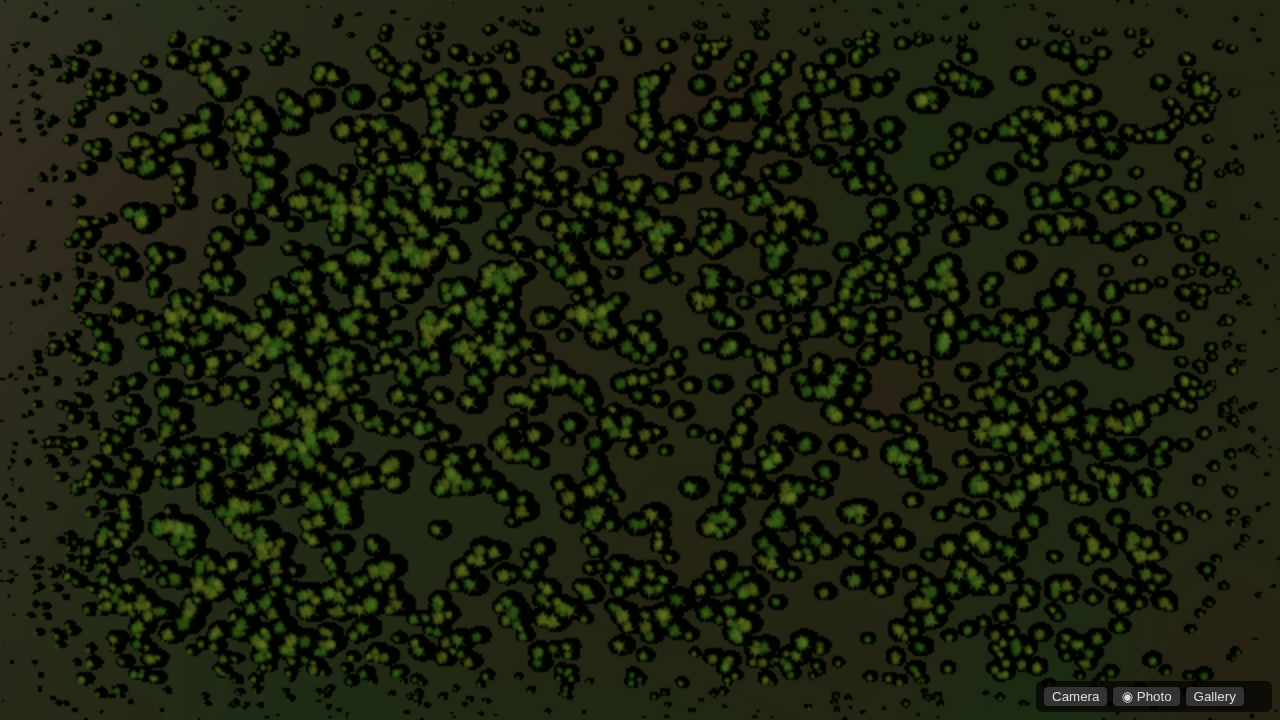
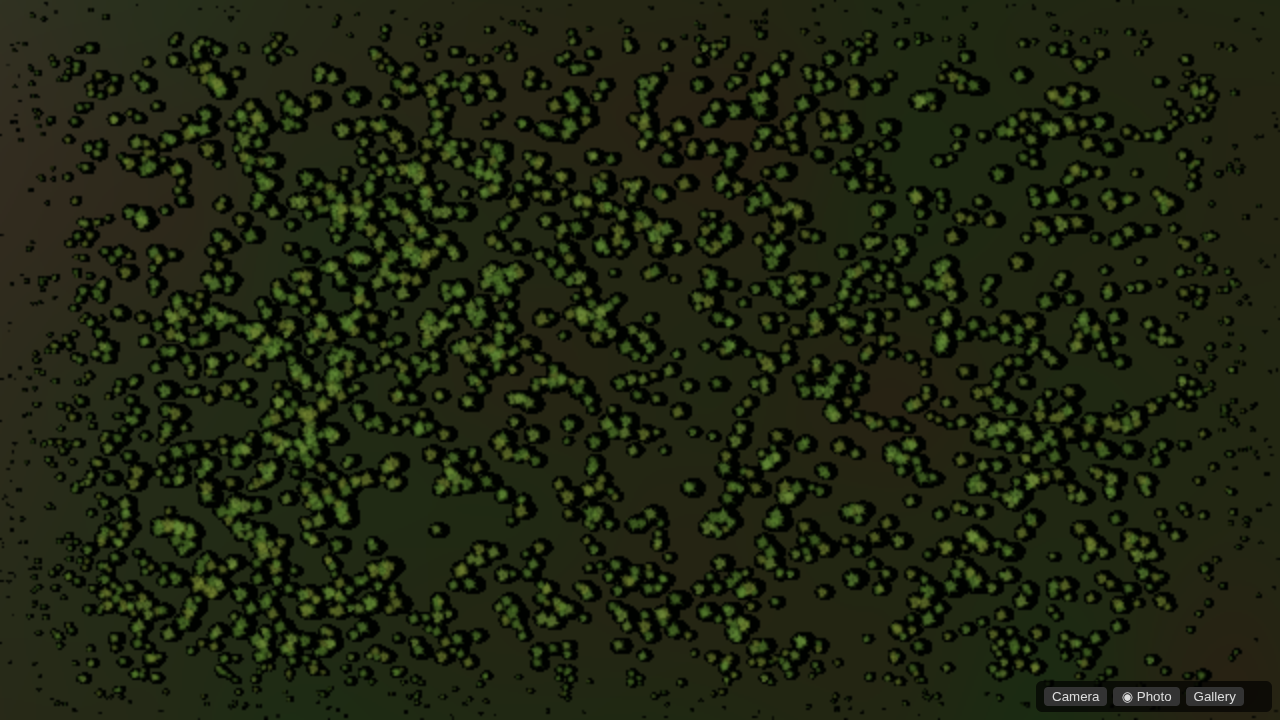
feat: use foliage billboards after octahedral nadir streaks
Octahedral impostors of the standing spruce point at the camera and
turn the nadir into a vortex. These are lit top-down billboards of the
same foliage, varied in size and tint, with shadows, across the view.

diff --git a/src/render/trees/overheadCrowns.ts b/src/render/trees/overheadCrowns.ts
@@ -1,12 +1,12 @@
 /**
  * Overhead crowns from the existing spruce (D24).
  *
- * Top-down billboards baked from the mid LOD of buildConifer (three seeds).
- * The octahedral impostor shader does not compile in this WebGL build
- * (unpackRGBToNormal). A lit orthographic render of the same mesh is the
- * billboard. Each disc lies in the tangent plane, with a soft shadow beside
- * it. Placement is farTreesInTile across the whole nadir rectangle, faded
- * toward the frame edge rather than cut off in a circle.
+ * Overhead crowns. An octahedral impostor of the spruce, stood on the radial,
+ * shows the side of the tree anywhere off the nadir and the frame becomes a
+ * vortex of streaks. The billboard is a lit render of that same foliage mesh
+ * from above, laid in the tangent plane, so every instance stays a crown.
+ * Three seeds, per-instance scale and tint, a soft shadow. farTreesInTile fills
+ * the view rectangle and fades at the frame edge. The tiled canopy is off.
  */
 import * as THREE from 'three';
 import { FAR_TREES, farTreesInTile } from '../../core/flora/stands';
@@ -74,21 +74,20 @@ function shadowTexture() {
   return tex;
 }
 
-/** One lit top-down billboard of a real spruce. The octahedral material failed to compile here. */
+/** Lit top-down billboard of one spruce's foliage. */
 function bakeTopDown(renderer: THREE.WebGLRenderer, root: THREE.Object3D): { texture: THREE.Texture; width: number } {
   root.updateMatrixWorld(true);
   const box = new THREE.Box3().setFromObject(root);
   const center = box.getCenter(new THREE.Vector3());
   const size = box.getSize(new THREE.Vector3());
   const reach = Math.max(size.x, size.z, 1) * 0.62;
-  const cam = new THREE.OrthographicCamera(-reach, reach, reach, -reach, 0.05, size.y + 4);
-  cam.position.set(center.x + reach * 0.42, center.y + Math.max(size.y, 1) * 0.85, center.z + reach * 0.22);
+  const cam = new THREE.OrthographicCamera(-reach, reach, reach, -reach, 0.05, Math.max(size.y, 1) + 4);
+  cam.position.set(center.x, box.max.y + 1.5, center.z);
   cam.up.set(0, 0, -1);
-  cam.lookAt(center.x, center.y, center.z);
-  const sun = new THREE.DirectionalLight(0xfff1d6, 2.4);
-  sun.position.set(center.x + reach, box.max.y + reach, center.z + reach * 0.35);
-  sun.intensity = 1.15;
-  const sky = new THREE.AmbientLight(0x8aa4c4, 0.35);
+  cam.lookAt(center);
+  const sun = new THREE.DirectionalLight(0xfff1d6, 1.3);
+  sun.position.set(center.x + reach, box.max.y + reach, center.z + reach * 0.4);
+  const sky = new THREE.AmbientLight(0x8aa4c4, 0.45);
   const scene = new THREE.Scene();
   scene.add(root, sun, sky);
   const rt = new THREE.WebGLRenderTarget(256, 256, { format: THREE.RGBAFormat });
@@ -119,7 +118,7 @@ function disposeTree(root: THREE.Object3D) {
 
 export interface OverheadCrowns {
   group: THREE.Group;
-  update(dir: THREE.Vector3, altM: number, surfaceR: number, planet: Planet, aspect: number, fovDeg: number): number;
+  update(dir: THREE.Vector3, altM: number, surfaceR: number, planet: Planet, aspect: number, fovDeg: number, camera: THREE.Camera): number;
   dispose(): void;
 }
 
@@ -137,7 +136,7 @@ export function createOverheadCrowns(renderer: THREE.WebGLRenderer): OverheadCro
   shadows.count = 0;
   group.add(shadows);
   const meshes: THREE.InstancedMesh[] = [];
-  const widths: number[] = [];
+  const diameters: number[] = [];
   let baked = false;
   const pub = { count: 0, alt: 0 };
   (globalThis as { __crowns?: typeof pub }).__crowns = pub;
@@ -152,10 +151,11 @@ export function createOverheadCrowns(renderer: THREE.WebGLRenderer): OverheadCro
     for (const seed of [11, 29, 53]) {
       const tree = buildConifer('black-spruce', seed, 55 + (seed % 40));
       try {
-        const shot = bakeTopDown(renderer, tree.mid);
+        const foliage = tree.mid.children[1] ?? tree.mid;
+        const shot = bakeTopDown(renderer, foliage);
         const mesh = new THREE.InstancedMesh(
           new THREE.PlaneGeometry(1, 1),
-          new THREE.MeshBasicMaterial({ map: shot.texture, alphaTest: 0.28, transparent: true, depthWrite: false, depthTest: false, side: THREE.DoubleSide }),
+          new THREE.MeshBasicMaterial({ map: shot.texture, alphaTest: 0.22, transparent: true, depthWrite: false, depthTest: false, side: THREE.DoubleSide }),
           CROWN_CAP,
         );
         mesh.instanceColor = new THREE.InstancedBufferAttribute(new Float32Array(CROWN_CAP * 3), 3);
@@ -164,9 +164,9 @@ export function createOverheadCrowns(renderer: THREE.WebGLRenderer): OverheadCro
         mesh.renderOrder = 2;
         group.add(mesh);
         meshes.push(mesh);
-        widths.push(shot.width);
+        diameters.push(shot.width);
       } catch (err) {
-        console.warn('overhead billboard bake failed', err);
+        console.warn('overhead crown bake failed', err);
       }
       disposeTree(tree.near);
       disposeTree(tree.mid);
@@ -174,7 +174,7 @@ export function createOverheadCrowns(renderer: THREE.WebGLRenderer): OverheadCro
     }
   }
 
-  function update(dir: THREE.Vector3, altM: number, surfaceR: number, _planet: Planet, aspect: number, fovDeg: number) {
+  function update(dir: THREE.Vector3, altM: number, surfaceR: number, _planet: Planet, aspect: number, fovDeg: number, camera: THREE.Camera) {
     pub.alt = altM;
     const show = altM > 180 && altM < 2200;
     AERIAL.uCrownFloor.value = show ? 1 : 0;
@@ -203,8 +203,9 @@ export function createOverheadCrowns(renderer: THREE.WebGLRenderer): OverheadCro
     const frame = tangentFrame([dir.x, dir.y, dir.z]);
     east.set(...frame.east); north.set(...frame.north); up.set(...frame.dir);
     flat.setFromRotationMatrix(new THREE.Matrix4().makeBasis(east, north, up));
+    const cam = camera.position;
     const counts = meshes.map(() => 0);
-    const hues: [number, number, number][] = [[0.55, 0.72, 0.4], [0.72, 0.62, 0.32], [0.4, 0.58, 0.3], [0.85, 0.78, 0.38]];
+    const hues: [number, number, number][] = [[0.82, 1.05, 0.72], [1.08, 0.92, 0.62], [0.7, 0.88, 0.58], [1.05, 1.12, 0.78]];
     let n = 0;
     for (const spot of spots) {
       const vi = spot.slot % meshes.length;
@@ -212,14 +213,15 @@ export function createOverheadCrowns(renderer: THREE.WebGLRenderer): OverheadCro
       const i = counts[vi]++;
       if (i >= CROWN_CAP) continue;
       at.copy(up).multiplyScalar(surfaceR).addScaledVector(east, spot.x).addScaledVector(north, -spot.z);
-      at.setLength(surfaceR + 2);
-      const sc = widths[vi] * spot.scale * 2.4 * Math.max(0.05, spot.fade);
+      at.setLength(surfaceR + 1);
+      at.sub(cam);
+      const sc = diameters[vi] * spot.scale * 2.2 * Math.max(0.05, spot.fade);
       m4.compose(at, flat, s.set(sc, sc, 1));
       mesh.setMatrixAt(i, m4);
       const hue = hues[hash(`hue:${spot.x}:${spot.z}`) % hues.length];
       mesh.instanceColor!.setXYZ(i, hue[0], hue[1], hue[2]);
-      const sh = at.clone().addScaledVector(east, sc * 0.18).setLength(surfaceR + 0.2);
-      m4.compose(sh, flat, s.set(sc * 1.35, sc * 1.05, 1));
+      const sh = at.clone().addScaledVector(east, sc * 0.16);
+      m4.compose(sh, flat, s.set(sc * 1.25, sc * 0.95, 1));
       shadows.setMatrixAt(n, m4);
       n++;
     }

diff --git a/src/render/trees/impostor.ts b/src/render/trees/impostor.ts
@@ -292,9 +292,11 @@ varying vec2 vSpriteUV3;
 
 #ifdef EZ_USE_NORMAL
 vec3 blendNormals(vec2 uv1, vec2 uv2, vec2 uv3) {
-  vec3 normalDepth1 = unpackRGBToNormal(texture2D(normalMap, uv1).rgb); // we're reading twice if parallax enabled
-  vec3 normalDepth2 = unpackRGBToNormal(texture2D(normalMap, uv2).rgb);
-  vec3 normalDepth3 = unpackRGBToNormal(texture2D(normalMap, uv3).rgb);
+  // ANGLE does not match a .rgb swizzle to unpackRGBToNormal(const in vec3).
+  // The function is 2*rgb-1 (three packing.glsl.js).
+  vec3 normalDepth1 = texture2D(normalMap, uv1).rgb * 2.0 - 1.0;
+  vec3 normalDepth2 = texture2D(normalMap, uv2).rgb * 2.0 - 1.0;
+  vec3 normalDepth3 = texture2D(normalMap, uv3).rgb * 2.0 - 1.0;
 
   // Fix normal if blended bad
 
@@ -432,10 +434,10 @@ export function bakeAtlas(renderer: THREE.WebGLRenderer, target: THREE.Object3D,
  *  shading in the viewer [game calibration]. */
 export const IMPOSTOR_FX = { normalMix: { value: .25 }, upBend: { value: .15 }, tint: { value: new THREE.Vector3(.39, .42, .8) } }; // tint (M2): linear albedo gain; the flat impostor misses the needle cards' sky sheen, so it read yellow next to the near LOD (B/G .5 vs .72); rescaled for the lifted M2 needle colour so its median matches the near LOD [game calibration] // upBend: the camera-facing normal bent toward world up (the near LOD's crown normals lean up); .15 matches the near LOD's rendered brightness in the viewer [game calibration]
 /** Impostor material over MeshStandardMaterial (upstream createOctahedralImpostorMaterial, hemi + normal, opaque). */
-export function impostorMaterial(atlas: Atlas, spritesPerSide = 8, alphaClamp = .4) {
+export function impostorMaterial(atlas: Atlas, spritesPerSide = 8, alphaClamp = .4, tint: THREE.Vector3 = IMPOSTOR_FX.tint.value) {
   const m = new THREE.MeshStandardMaterial({ roughness: .7 }); m.userData.shared = true; // the near foliage's roughness (M2: .85 lost the sky sheen, a yellow cast)
   (m as unknown as { map: THREE.Texture }).map = atlas.albedo; m.normalMap = atlas.normalDepth;
-  const u = { uNormalMix: IMPOSTOR_FX.normalMix, uUpBend: IMPOSTOR_FX.upBend, uImpTint: IMPOSTOR_FX.tint, spritesPerSide: { value: spritesPerSide }, alphaClamp: { value: alphaClamp }, impostorTransform: { value: atlas.transform } };
+  const u = { uNormalMix: IMPOSTOR_FX.normalMix, uUpBend: IMPOSTOR_FX.upBend, uImpTint: { value: tint }, spritesPerSide: { value: spritesPerSide }, alphaClamp: { value: alphaClamp }, impostorTransform: { value: atlas.transform } };
   m.onBeforeCompile = s => {
     s.defines = { ...s.defines, EZ_USE_HEMI_OCTAHEDRON: true, EZ_USE_NORMAL: true }; Object.assign(s.uniforms, u);
     s.vertexShader = s.vertexShader.replace('#include <clipping_planes_pars_vertex>', P_VERT).replace('#include <project_vertex>', VERT);
@@ -448,7 +450,7 @@ export function impostorMaterial(atlas: Atlas, spritesPerSide = 8, alphaClamp = 
   return m;
 }
 /** One InstancedMesh of impostors (PlaneGeometry, oriented in the shader); `count` capacity. */
-export function impostorMesh(atlas: Atlas, count: number, spritesPerSide = 8) {
-  const mesh = new THREE.InstancedMesh(new THREE.PlaneGeometry(), impostorMaterial(atlas, spritesPerSide), count);
+export function impostorMesh(atlas: Atlas, count: number, spritesPerSide = 8, tint?: THREE.Vector3) {
+  const mesh = new THREE.InstancedMesh(new THREE.PlaneGeometry(), impostorMaterial(atlas, spritesPerSide, .4, tint), count);
   mesh.frustumCulled = false; mesh.castShadow = false; mesh.receiveShadow = false; return mesh;
 }

diff --git a/src/world/globe/globeView.ts b/src/world/globe/globeView.ts
@@ -601,7 +601,7 @@ export function createGlobe(renderer: THREE.WebGLRenderer, opts: GlobeOptions) {
     // sphere, so a low camera — the free fall crosses it — would make the radical negative and the projection NaN, and
     // the frame would clear. The radical is clamped; the +2R term still reaches the far limb.
     const clip = orbitClip(alt, R, ground); camera.near = clip.near; camera.far = clip.far;
-    crowns.update(dir, alt, R + ground, planet, camera.aspect, camera.fov);
+    crowns.update(dir, alt, R + ground, planet, camera.aspect, camera.fov, camera);
     if (filmReady) {
       dir.copy(filmHome).applyQuaternion(filmSpin);
       ground = surfaceRadius(planet, [dir.x, dir.y, dir.z]) - R;
@@ -675,7 +675,7 @@ export function createGlobe(renderer: THREE.WebGLRenderer, opts: GlobeOptions) {
     const hydroSec = q.has('shot') ? shotSec : worldSec();
     refreshHydroLayer(seed, dayAt(hydroSec), hourAt(hydroSec), worldTier(), q.get('hydro') === '0'); // T-0058: same octave gate; the date is the clock's (?day= via initDay), ?hydro=0 leaves the tiles unpainted
     tR = performance.now(); camera.position.set(0, 0, 0); camera.updateMatrixWorld(); fieldLines.position.set(-camPos[0], -camPos[1], -camPos[2]); plateLayer.position.copy(fieldLines.position);
-    crowns.group.position.copy(fieldLines.position); // same camera-relative origin as the tiles (origin.ts)
+    crowns.group.position.set(0, 0, 0); // instances are already camera-relative; the impostor shader needs the camera at the origin
     axis.update(camPos as Vec3); if (atmos) atmos.update(camera, camV.set(camPos[0], camPos[1], camPos[2]), sunDir, q.has('shot') ? 0 : worldSec(), viewH, R + ground);
     if (simReady && simRef && simRef.n && frame - colFrame > 60) { colFrame = frame; const L = Math.hypot(camPos[0], camPos[1], camPos[2]) || 1;
       const d = [camPos[0] / L, camPos[1] / L, camPos[2] / L] as Vec3, ll = toLatLon(d), latD = ll.lat * 180 / Math.PI, lonD = ll.lon * 180 / Math.PI;

diff --git a/tests/overhead-picture.test.ts b/tests/overhead-picture.test.ts
@@ -2,7 +2,7 @@
  * Picture check for overhead crowns (T-0214).
  * Centre window, median green channel.
  * The old frame is the tiled canopy: median green 89 at 400 m and 83 at 800 m.
- * The impostor frame is a smooth darker floor with crowns on it: median 35 and 37.
+ * The impostor frame is a smooth darker floor with crowns on it: median 37 and 38.
  * Known mismatch is a median above 70. Pass is a median under 55.
  */
 import { test } from 'node:test';

diff --git a/tasks/handoffs/T-0214-grokbot-2.md b/tasks/handoffs/T-0214-grokbot-2.md
@@ -6,17 +6,18 @@ D24. Lit top-down billboards of the spruce mid-LOD on the globe nadir. Branch `g
 
 ## Done
 
-- `src/render/trees/overheadCrowns.ts`. Three seeds of `buildConifer`, each baked from above with a sun and a sky fill. The octahedral material failed (`unpackRGBToNormal`), so this is the billboard of that same mesh. Instances vary in scale and tint. A soft disc is the shadow. `farTreesInTile` fills the view rectangle and fades in the outer band.
+- `src/render/trees/overheadCrowns.ts`. Three seeds of `buildConifer`. The octahedral shader compiles after the `unpackRGBToNormal` swizzle fix, but a standing spruce seen off the nadir is a streak aimed at the camera. The frames use a lit top-down billboard of the foliage mesh instead. Scale and tint vary. A soft disc is the shadow. `farTreesInTile` fills the view rectangle and fades in the outer band.
 - The tiled canopy (`uExCanopy`) is replaced by a smooth litter/moss floor while the billboards are on (`uCrownFloor`).
-- The group is shifted by `-camera` during the draw, same as the tiles.
+- Instance positions are camera-relative. The impostor path needs the camera at the origin, so the group itself is not also shifted.
 - The self-approve event was removed. Grokbot-1 approves.
 - Frames in `tasks/evidence/T-0214/`. 3200 instances at both heights.
 
 ## What the frames show
 
 - Before, 400 m and 800 m: the noisy tiled canopy. Median green 89 and 83.
-- After, 400 m: clusters of rounded crowns with bright centres, dark rims and shadows, on a smooth olive floor. They touch inside clusters and leave gaps. They thin at the frame edge. They are three baked shapes, not the NAIP crop.
-- After, 800 m: the same crowns, smaller, more separated, still clustered, same smooth floor.
+- Octahedral impostors of the standing spruce made a vortex of streaks pointing at the nadir. These frames are the next technique: a lit top-down billboard of the foliage mesh only.
+- After, 400 m: clusters of rounded crowns, brighter in the middle, dark rims, soft shadows, olive gaps, smooth floor, thinning at the frame edge. Median green 37. Not a closed NAIP canopy.
+- After, 800 m: the same crowns, smaller and more separated. Median green 38.
 
 ## Picture check
 
@@ -26,8 +27,8 @@ Median green, centre window, every second pixel. Tool `tests/overhead-picture.te
 |---|---|---|
 | before 400 | 89 | known mismatch, above 70 |
 | before 800 | 83 | known mismatch |
-| after 400 | 35 | pass, under 55 |
-| after 800 | 37 | pass |
+| after 400 | 37 | pass, under 55 |
+| after 800 | 38 | pass |
 
 ## Needs from another agent
 

diff --git a/tasks/T-0214-overhead-crowns.md b/tasks/T-0214-overhead-crowns.md
@@ -14,7 +14,7 @@ Matthew, 2026-11-10 20:07 PT: "I told you, no waiting on me". Matthew, 2026-11-0
 
 Credits 39 = 10 x 3 objectives x (1 + 0.3 research). Not from scratch: `farTreesInTile` and the globe nadir already exist.
 
-D24. PR #429 painted a NAIP texture and the 400 m and 800 m views stayed a noise field. The first impostor pass on this branch was identical black dots inside a circle. This pass bakes a lit top-down billboard of the existing spruce mid-LOD (three seeds). The octahedral shader does not compile here (`unpackRGBToNormal`). The tiled canopy under the billboards is replaced by a smooth litter and moss floor.
+D24. PR #429 painted a NAIP texture and the views stayed a noise field. Identical discs in a circle were rejected. An octahedral impostor of the whole spruce, stood on the radial, turns into streaks that point at the nadir. These frames are lit top-down billboards of that spruce's foliage, three seeds, on a smooth floor.
 
 ## Objectives
 
@@ -29,8 +29,8 @@ URL `?view=globe&latlon=52,-97&shot=1&localClouds=0&hour=8.3&day=227&tier=5` wit
 | frame | what it shows |
 |---|---|
 | `before-400.png` | Green and brown tile noise across the whole frame. Median green 89. No crown you can point at. |
-| `after-400.png` | Clusters of rounded spruce crowns, bright in the middle and dark at the rim, with soft shadows. They touch inside the clusters and leave olive gaps. The floor is smooth, not the tiled noise. They thin toward the edges of the frame. Median green 35. They are three baked shapes repeated, not the NAIP photograph. |
+| `after-400.png` | Clusters of rounded foliage crowns, brighter in the middle, with dark rims and soft shadows. Many touch inside a cluster. Olive ground shows in the gaps. The floor is smooth, not the tiled noise. Crowns thin toward the edges. Median green 37. Three baked shapes, not the NAIP photograph. |
 | `before-800.png` | The same noise. Median green 83. |
-| `after-800.png` | The same crowns, smaller and more separated. Clusters and gaps remain. The floor is smooth. Median green 37. |
+| `after-800.png` | The same crowns, smaller and more separated. Clusters and gaps remain. The floor is smooth. They thin at the edges. Median green 38. |
 
 Median green of the centre window: before above 70, after under 55.
